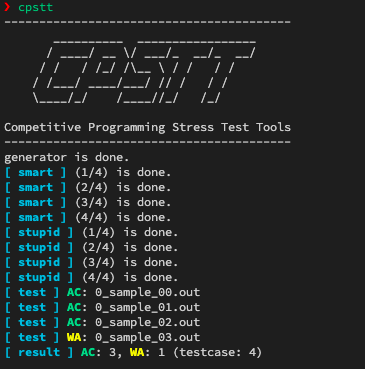
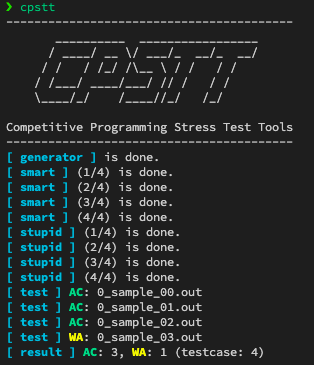
fix: generatorの出力に色付けした

diff --git a/src/main.rs b/src/main.rs
@@ -118,7 +118,10 @@ fn generator(mut generator_path: PathBuf) -> Result<()> {
         );
         println!("{}", exec_output);
     } else {
-        println!("generator is done.",);
+        println!(
+            "{} is done.",
+            PrintColorize::print_cyan(String::from("[ generator ]"))
+        );
     }
     Ok(())
 }
